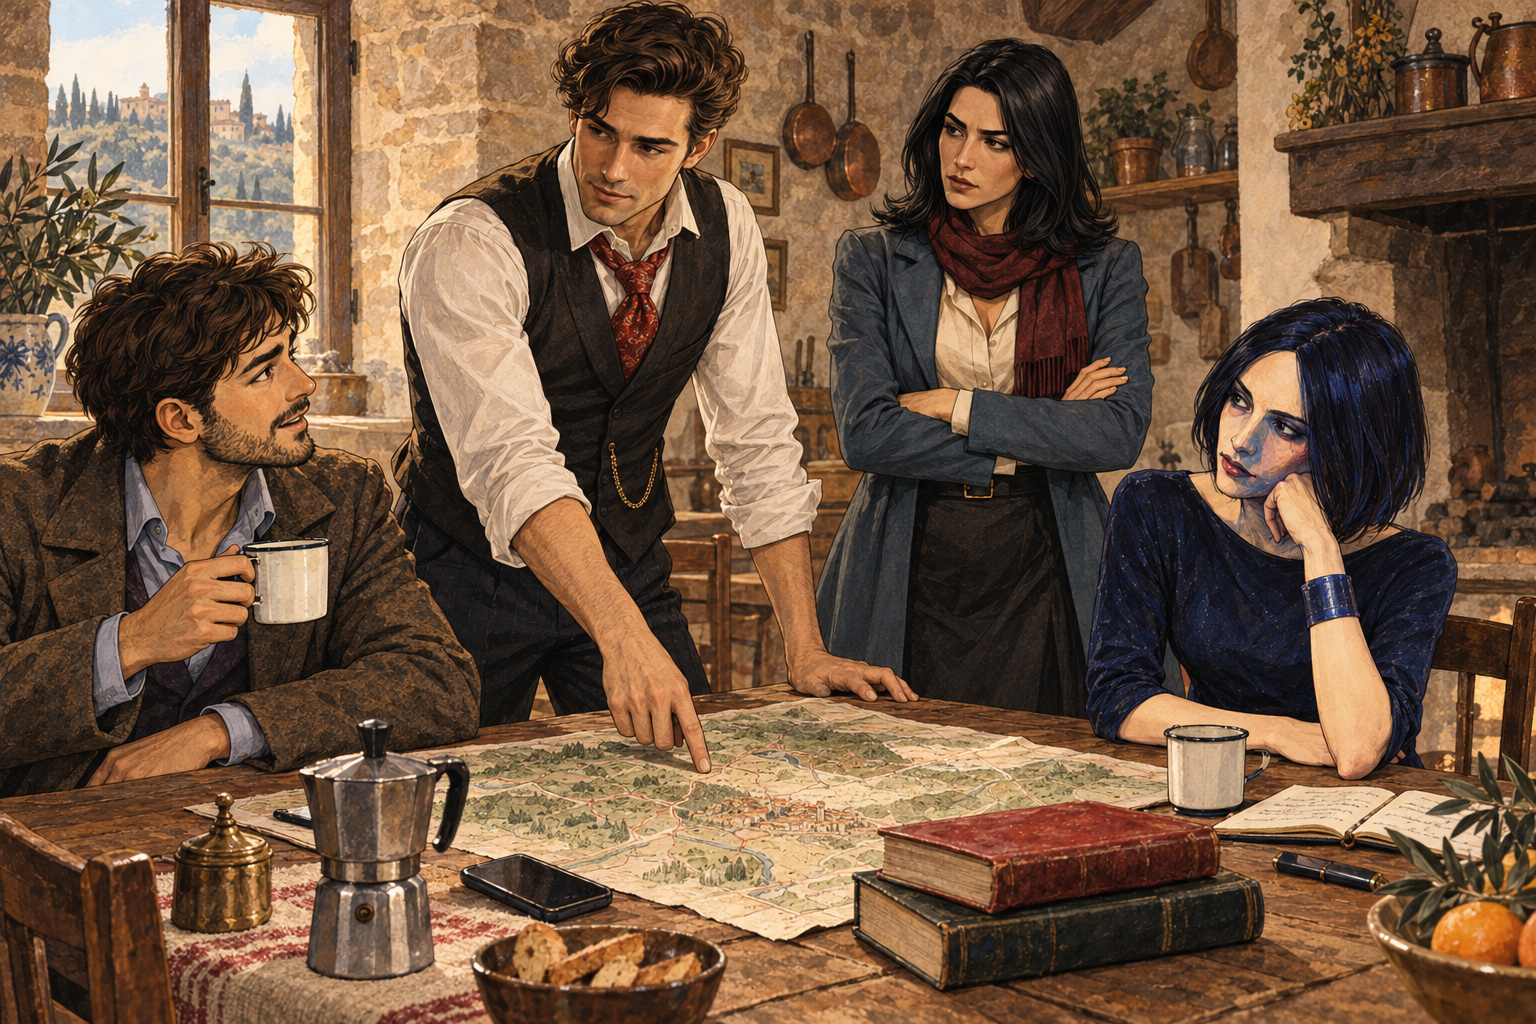
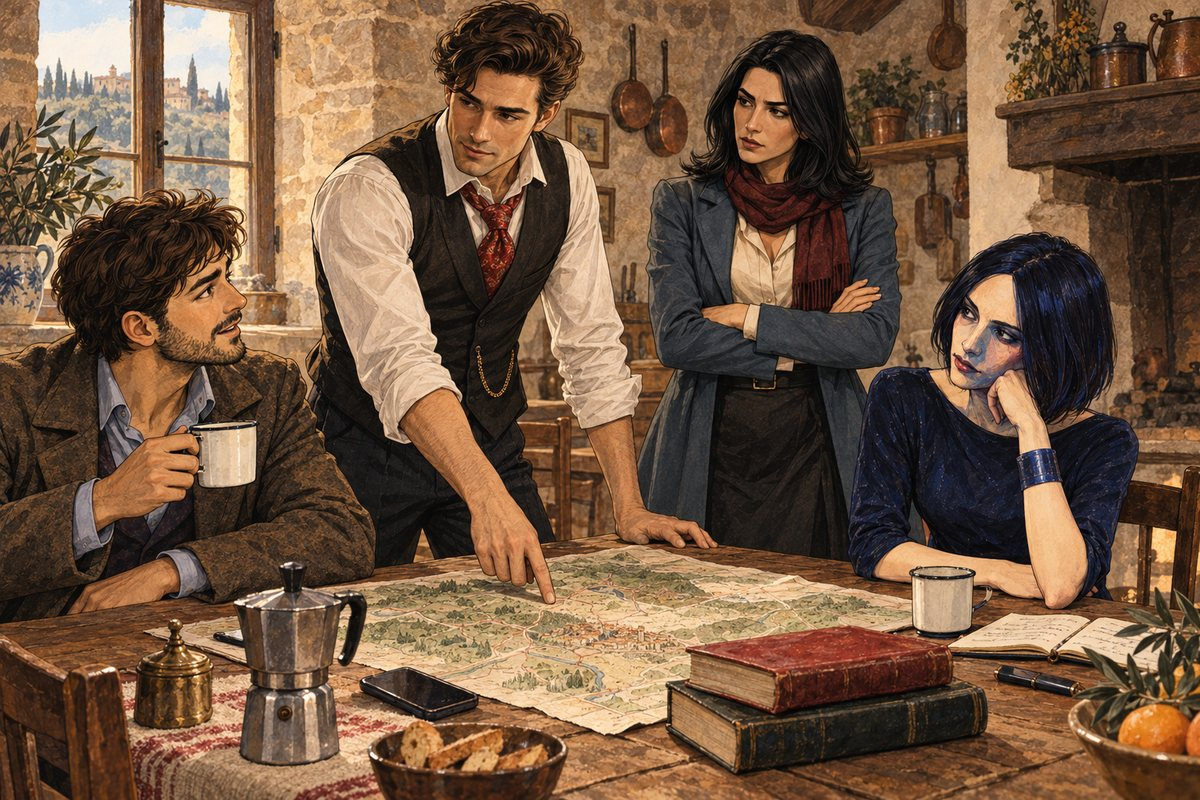
Optimize illustrations: A Man from the Future (PNG→JPEG) and La nevicata rosa
Resized to max 1200px wide, JPEG q84 progressive. Site content 101 MB → 45 MB.

Claude-Session: https://claude.ai/code/session_01HEce5eQWPrLfFRyhmwYtHt

Changed region(s): [[0.1542, 0.3125, 0.185, 0.3438], [0.1542, 0.25, 0.185, 0.2812]]

diff --git a/novels/a-man-from-the-future/04.md b/novels/a-man-from-the-future/04.md
@@ -1,6 +1,6 @@
 ## to the Future Baby
 
-![](novels/a-man-from-the-future/img/03.png)
+![](novels/a-man-from-the-future/img/03.jpg)
 
 ### Arbatstreet
 

diff --git a/novels/a-man-from-the-future/07.md b/novels/a-man-from-the-future/07.md
@@ -1,4 +1,4 @@
-![](novels/a-man-from-the-future/img/06.png)
+![](novels/a-man-from-the-future/img/06.jpg)
 
 ### Aneveningtogether
 

diff --git a/novels/a-man-from-the-future/05.md b/novels/a-man-from-the-future/05.md
@@ -1,4 +1,4 @@
-![](novels/a-man-from-the-future/img/04.png)
+![](novels/a-man-from-the-future/img/04.jpg)
 
 ### Nina ’ Scafé
 

diff --git a/novels/a-man-from-the-future/11.md b/novels/a-man-from-the-future/11.md
@@ -1,4 +1,4 @@
-![](novels/a-man-from-the-future/img/10.png)
+![](novels/a-man-from-the-future/img/10.jpg)
 
 ### Afuturetogether
 

diff --git a/novels/a-man-from-the-future/02.md b/novels/a-man-from-the-future/02.md
@@ -1,4 +1,4 @@
-![](novels/a-man-from-the-future/img/01.png)
+![](novels/a-man-from-the-future/img/01.jpg)
 
 ### Moscow · 3024
 

diff --git a/novels/a-man-from-the-future/03.md b/novels/a-man-from-the-future/03.md
@@ -1,4 +1,4 @@
-![](novels/a-man-from-the-future/img/02.png)
+![](novels/a-man-from-the-future/img/02.jpg)
 
 ### Moscow · 2024
 

diff --git a/novels/a-man-from-the-future/06.md b/novels/a-man-from-the-future/06.md
@@ -1,4 +1,4 @@
-![](novels/a-man-from-the-future/img/05.png)
+![](novels/a-man-from-the-future/img/05.jpg)
 
 ### June27 · 2024
 

diff --git a/novels/a-man-from-the-future/09.md b/novels/a-man-from-the-future/09.md
@@ -1,4 +1,4 @@
-![](novels/a-man-from-the-future/img/08.png)
+![](novels/a-man-from-the-future/img/08.jpg)
 
 ### Moscow · 3024
 

diff --git a/novels/a-man-from-the-future/10.md b/novels/a-man-from-the-future/10.md
@@ -1,4 +1,4 @@
-![](novels/a-man-from-the-future/img/09.png)
+![](novels/a-man-from-the-future/img/09.jpg)
 
 ### June27 · 2024
 

diff --git a/novels/a-man-from-the-future/08.md b/novels/a-man-from-the-future/08.md
@@ -1,4 +1,4 @@
-![](novels/a-man-from-the-future/img/07.png)
+![](novels/a-man-from-the-future/img/07.jpg)
 
 ### Askingforhelp
 
